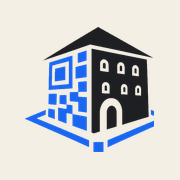
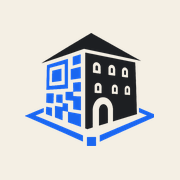
QR card: emblem centred and complete, www.xplore-prokletije.com under the title
The emblem is now cut from the logo by tools/make_icons.py (the old crop cut off the
tip of the blue base), and the app icons use the same cut.

Claude-Session: https://claude.ai/code/session_01Bc8dTutUBKqYsyTPjSXrpa

Changed region(s): [[0.1389, 0.1389, 0.8611, 0.8611]]

diff --git a/tools/make_qr.py b/tools/make_qr.py
@@ -13,6 +13,7 @@ from reportlab.graphics.barcode.qrencoder import QRCode, QRErrorCorrectLevel
 HERE = os.path.dirname(os.path.abspath(__file__))
 OUT = os.path.join(HERE, "..", "qr")
 URL = "https://gsgsgs84.github.io/xplore-prokletije/"
+SITE_TEXT = "www.xplore-prokletije.com"          # printed under the code
 INK, BLUE, WHITE, GREY = (23, 33, 42), (0, 92, 248), (255, 255, 255), (96, 104, 114)
 FONTS = os.path.join(HERE, "..", "fonts")
 
@@ -29,13 +30,10 @@ def matrix(text):
 
 
 def main():
-    src = Image.open(os.path.join(HERE, "..", "icons", "icon-512.png")).convert("RGBA")
-    a = np.asarray(src).copy(); cream = (np.abs(a[..., :3].astype(int) - [244, 239, 228]).max(-1) < 14)
-    a[cream] = [255, 255, 255, 255]
-    logo = Image.fromarray(a, "RGBA"); logo = logo.crop(Image.eval(logo.convert("L"), lambda v: 255 if v < 200 else 0).getbbox())
+    logo = Image.open(os.path.join(HERE, "..", "icons", "emblem.png")).convert("RGBA")   # made by tools/make_icons.py
     M = matrix(URL); n = M.shape[0]; quiet = 4
     mod = 1500 // (n + 2 * quiet); side = mod * (n + 2 * quiet)
-    b = int(round(n * 0.3)) | 1
+    b = int(round(n * 0.32)) | 1                          # odd, so the cleared square sits exactly in the middle
     r0 = c0 = (n - b) // 2
     M = M.copy(); M[r0:r0 + b, c0:c0 + b] = False
     W, H = side + 160, side + 380
@@ -51,17 +49,17 @@ def main():
                     rr = r % (n - 7) if r >= n - 7 else r; cc = c % (n - 7) if c >= n - 7 else c
                     col = INK if (2 <= rr <= 4 and 2 <= cc <= 4) else BLUE
                 d.rectangle([x, y, x + mod - 1, y + mod - 1], fill=col)
+    # the emblem, centred in the cleared square with a margin of one module all round
     px, py, pw = ox + (c0 + quiet) * mod, oy + (r0 + quiet) * mod, b * mod
-    d.rounded_rectangle([px, py, px + pw - 1, py + pw - 1], radius=mod, fill=WHITE)
     lg = logo.copy(); lg.thumbnail((pw - 2 * mod, pw - 2 * mod), Image.LANCZOS)
-    img.paste(lg, (px + (pw - lg.width) // 2, py + (pw - lg.height) // 2), lg)
+    cx, cy = px + pw / 2, py + pw / 2
+    img.paste(lg, (round(cx - lg.width / 2), round(cy - lg.height / 2)), lg)
     ty = oy + side + 10
-    serif = ImageFont.truetype(os.path.join(HERE, "..", "..", "src", "gsgsgs84", "gusinjska-bastina", "tools", "soba", "fonts", "Marcellus-Regular.ttf"), 96) \
-        if os.path.exists(os.path.join(HERE, "..", "..", "src")) else ImageFont.load_default()
+    serif = ImageFont.truetype(os.path.join(FONTS, "marcellus.woff"), 96)
+    sans = ImageFont.truetype(os.path.join(FONTS, "golos.woff"), 40)
     d.text((W / 2, ty + 60), "Xplore Prokletije", font=serif, fill=INK, anchor="mm")
-    sans = "/usr/share/fonts/truetype/dejavu/DejaVuSans.ttf"
-    d.text((W / 2, ty + 150), "Sve aplikacije · All apps · Të gjitha aplikacionet", font=ImageFont.truetype(sans, 40), fill=GREY, anchor="mm")
-    d.text((W / 2, ty + 215), URL.replace("https://", ""), font=ImageFont.truetype(sans, 32), fill=(128, 136, 146), anchor="mm")
+    d.text((W / 2, ty + 150), "Sve aplikacije · All apps · Të gjitha aplikacionet", font=sans, fill=GREY, anchor="mm")
+    d.text((W / 2, ty + 218), SITE_TEXT, font=ImageFont.truetype(os.path.join(FONTS, "golos.woff"), 46), fill=BLUE, anchor="mm")
     os.makedirs(OUT, exist_ok=True)
     path = os.path.join(OUT, "xplore-prokletije.png")
     img.save(path, dpi=(300, 300))
@@ -69,7 +67,10 @@ def main():
     for f in (0.35, 0.2):
         got = cv2.QRCodeDetector().detectAndDecode(cv2.resize(gray, None, fx=f, fy=f, interpolation=cv2.INTER_AREA))[0]
         print(f"scale {f}: {'OK' if got == URL else 'FAILED ' + repr(got)}")
+    # check the emblem is centred: its visible pixels' bounding box against the cleared square
+    a = np.asarray(img.crop((px, py, px + pw, py + pw)).convert("L")) < 200
+    ys, xs = np.where(a)
+    print("emblem margins L/R/T/B px:", xs.min(), pw - 1 - xs.max(), ys.min(), pw - 1 - ys.max())
     print(path, n, "modules")
-
 
 main()

diff --git a/tools/make_icons.py b/tools/make_icons.py
@@ -1,0 +1,37 @@
+#!/usr/bin/env python3
+"""App icons and the emblem (tower + QR blocks, no lettering) cut from the project logo.
+
+usage: python3 tools/make_icons.py <path to the logo PNG (xplore-prokletije-original.png, transparent)>
+  -> icons/emblem.png, icon-192/512, maskable, apple-touch-icon, og.png
+"""
+import os, sys
+import numpy as np
+from PIL import Image
+
+HERE = os.path.dirname(os.path.abspath(__file__))
+ICONS = os.path.join(HERE, "..", "icons")
+src = Image.open(sys.argv[1]).convert("RGBA")
+a = np.asarray(src).copy()
+# the emblem ends at x ~ 1055 (tip of the blue base); the "X" of Xplore starts at x = 1039 above y = 560
+a[:, 1070:] = 0
+a[:560, 1030:] = 0
+emb = Image.fromarray(a, "RGBA"); emb = emb.crop(emb.getbbox())
+emb.save(os.path.join(ICONS, "emblem.png"))
+print("emblem", emb.size)
+
+
+def icon(size, pad=0.16, bg=(244, 239, 228, 255)):
+    im = Image.new("RGBA", (size, size), bg)
+    e = emb.copy(); e.thumbnail((int(size * (1 - 2 * pad)),) * 2, Image.LANCZOS)
+    im.alpha_composite(e, ((size - e.width) // 2, (size - e.height) // 2))
+    return im
+
+
+icon(512).save(os.path.join(ICONS, "icon-512.png"))
+icon(192).save(os.path.join(ICONS, "icon-192.png"))
+icon(180, pad=0.14).convert("RGB").save(os.path.join(ICONS, "apple-touch-icon.png"))
+icon(512, pad=0.22).save(os.path.join(ICONS, "icon-maskable-512.png"))
+og = Image.new("RGBA", (1200, 630), (244, 239, 228, 255))
+full = src.crop(src.getbbox()); full.thumbnail((980, 420), Image.LANCZOS)
+og.alpha_composite(full, ((1200 - full.width) // 2, (630 - full.height) // 2))
+og.convert("RGB").save(os.path.join(ICONS, "og.png"), optimize=True)
